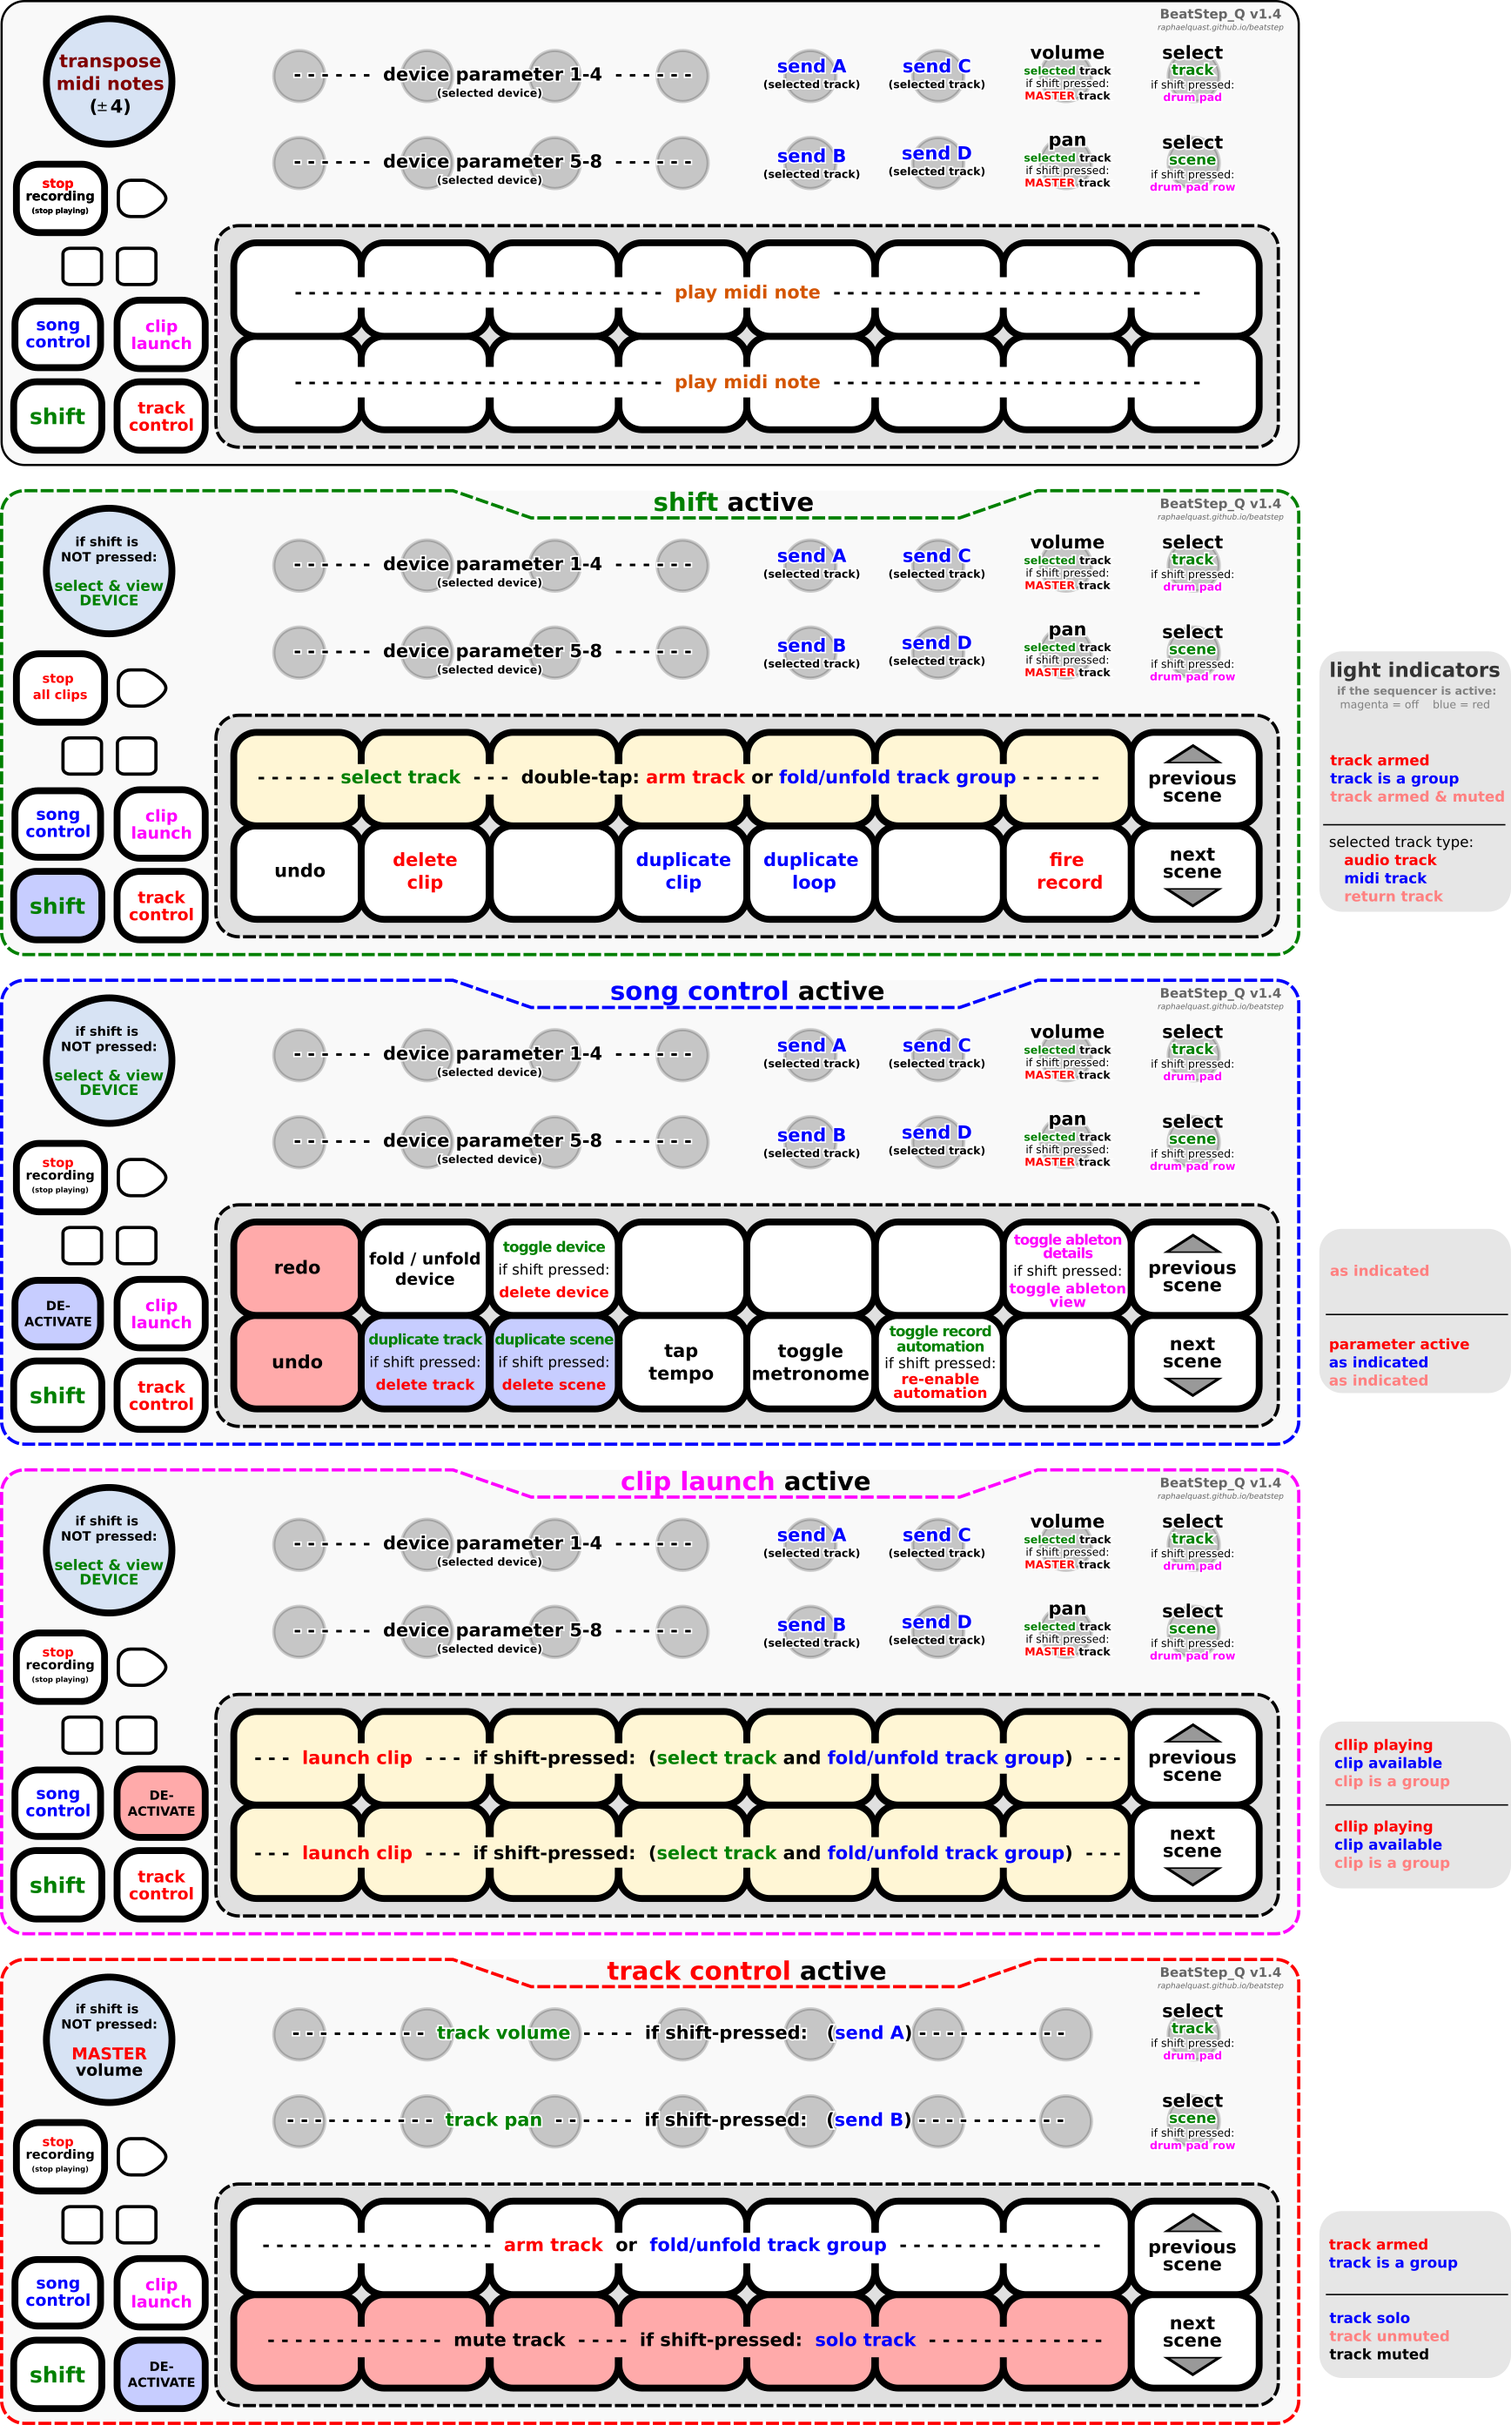
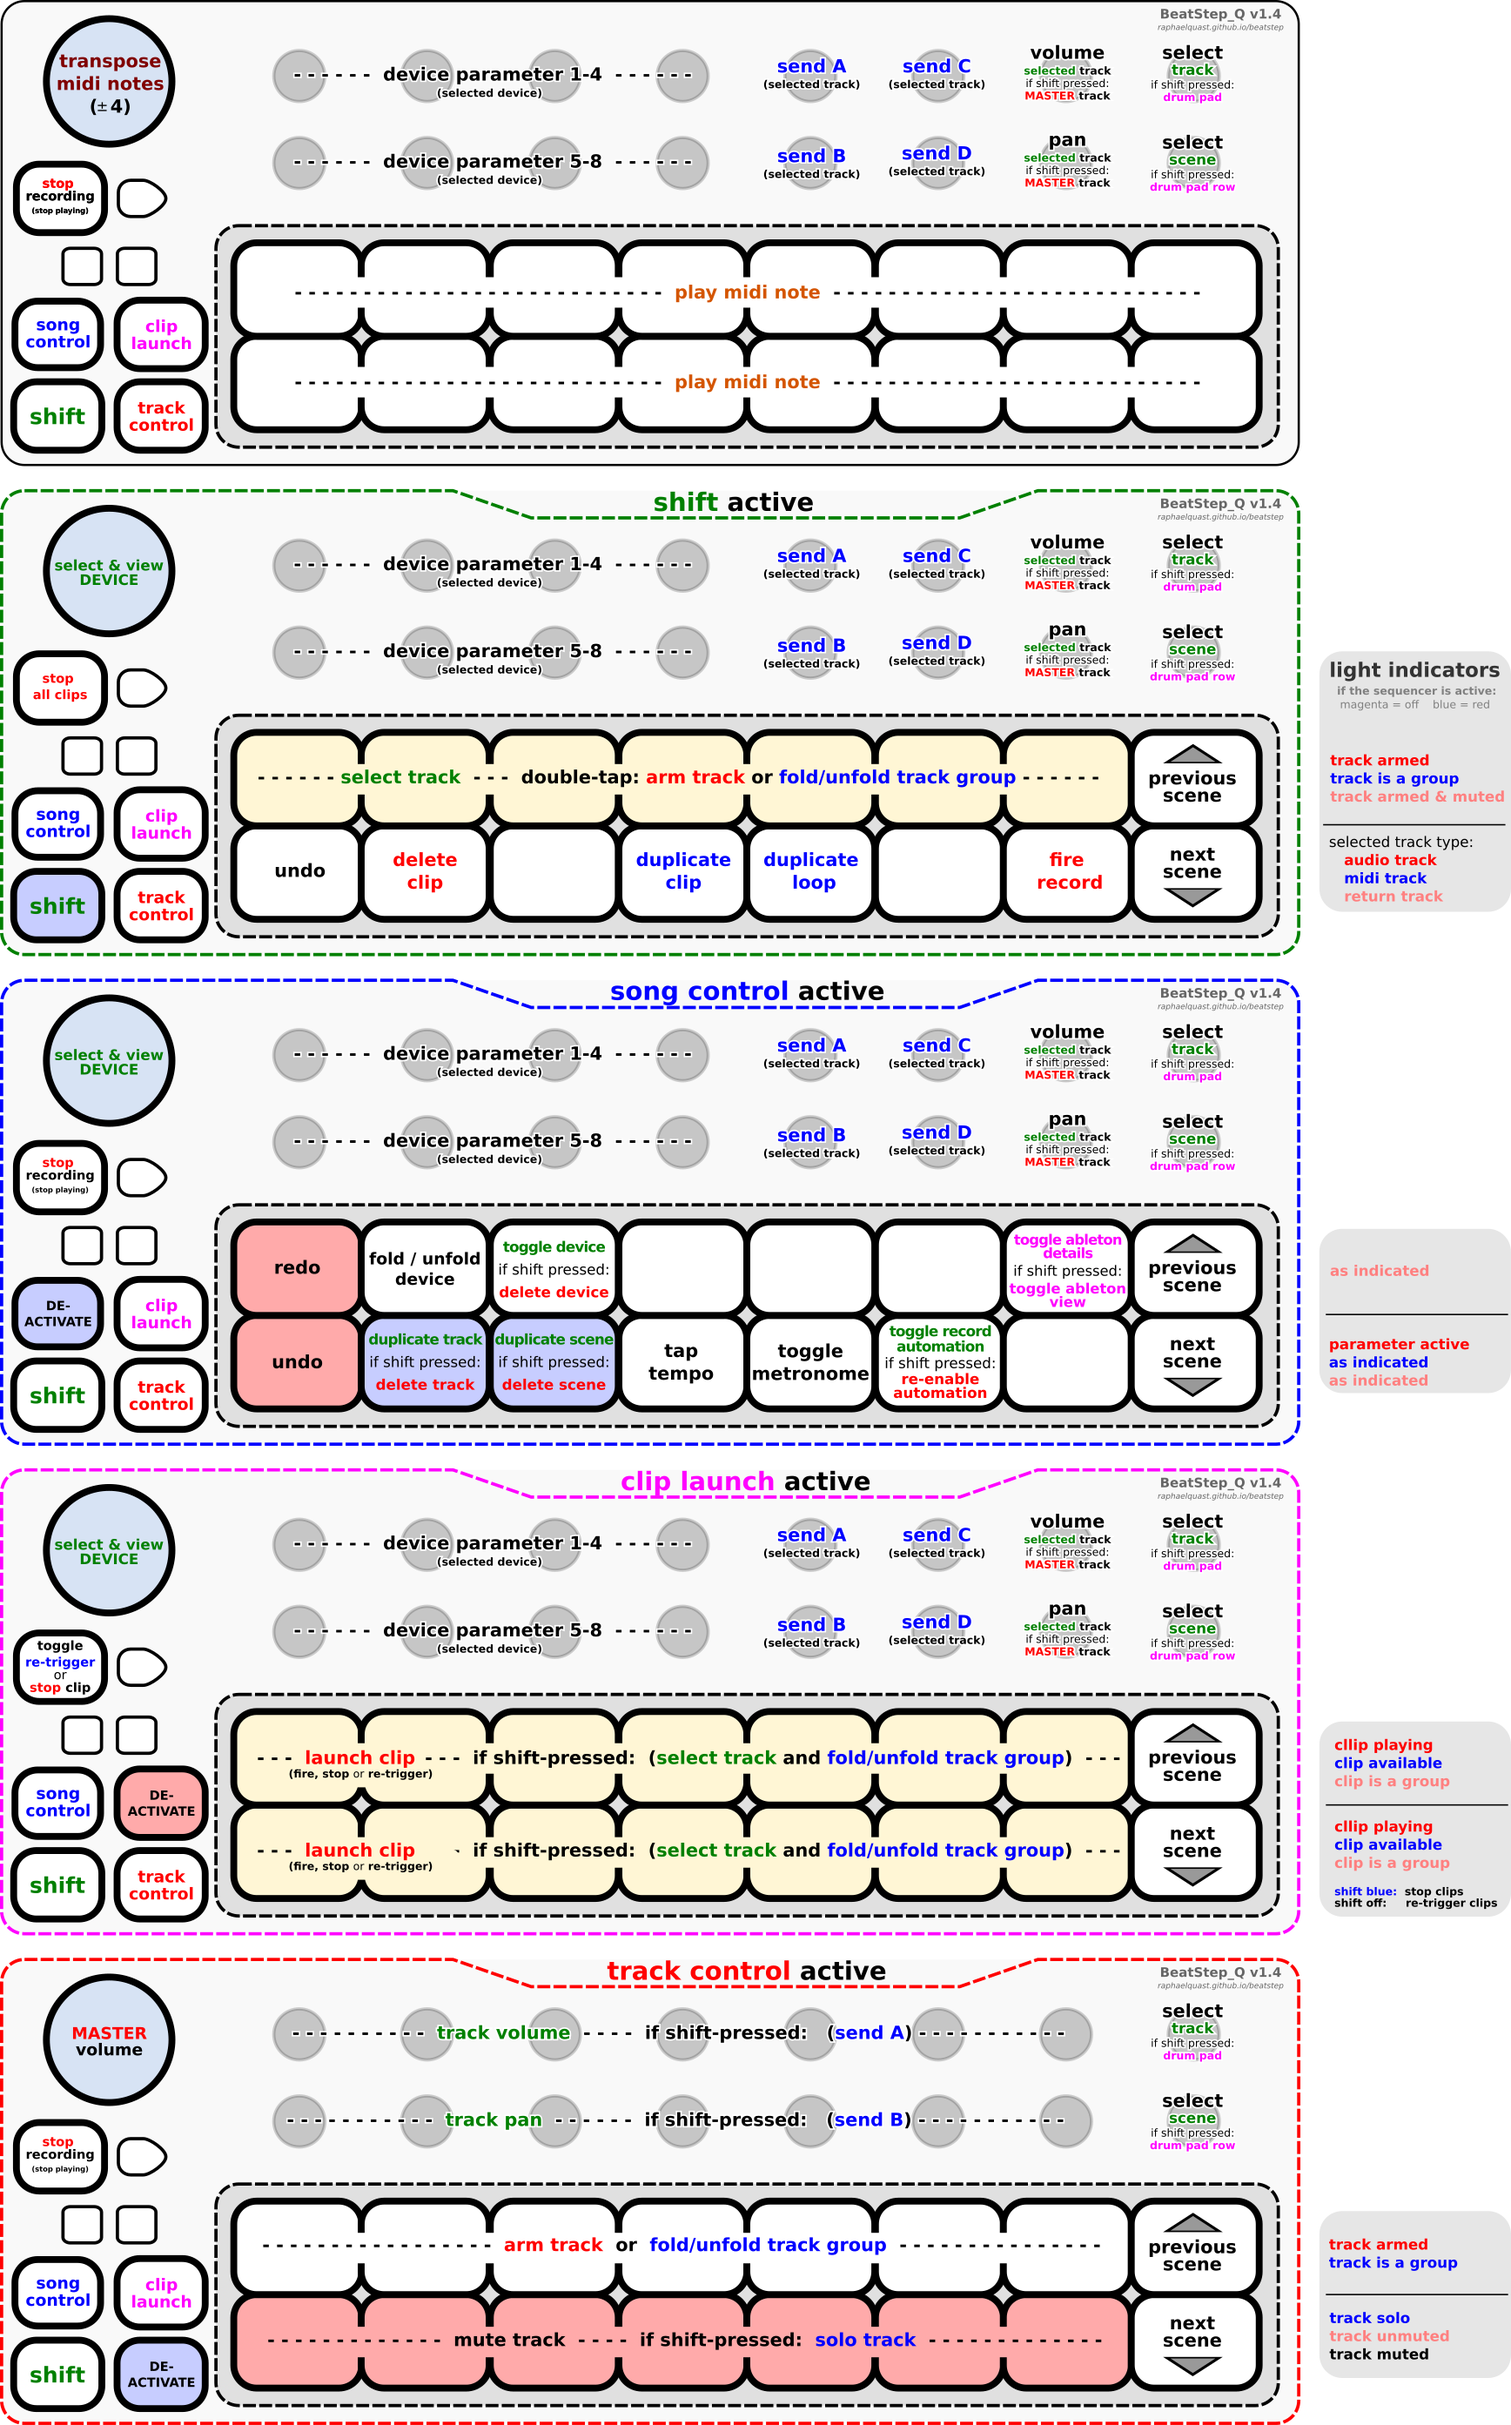
update readme and assignments image

diff --git a/README.md b/README.md
@@ -189,7 +189,8 @@ All encoders are assigned similar to the *"shift-layer"*.
 ### If "clip launch"  is active
 
 In this control-layer, both button-rows (e.g. `1-7` and `9-15`)  represent clip-slots.
-The lights indicate the status of the clip-slots, e.g.:
+NOTICE: the `stop` button has a special feature in this layer (see below).
+The button-lights indicate the status of the clip-slots, e.g.:
 
 - `blue` indicates a slot with a clip
   
@@ -201,7 +202,17 @@ The lights indicate the status of the clip-slots, e.g.:
 
 - `magenta` indicates a group-track (it will turn `red` if a clip of the group is playing)
 
+- the `shift` button indicates if *"re-trigger clips"* or *"stop clips"* mode is active
+
 #### The assignments are as follows:
+
+- the `stop-button` toggles the behaviour of the buttons (indicated by the `shift` button LED)
+  
+  - *"re-trigger clips"* mode (`shift` LED OFF) :  tapping on an already playing clip will **re-trigger** the clip
+  
+  - *"stop clips"* mode (`shift` LED ON) : tapping on an already playing clip will **stop** the clip
+  
+  (... the *"if shift-pressed"* behaviour is still similar to the other layers, e.g. *"stop all clips"*)
 
 - `button 1-7` : launch the clips present in the top-row of the selection.
   
